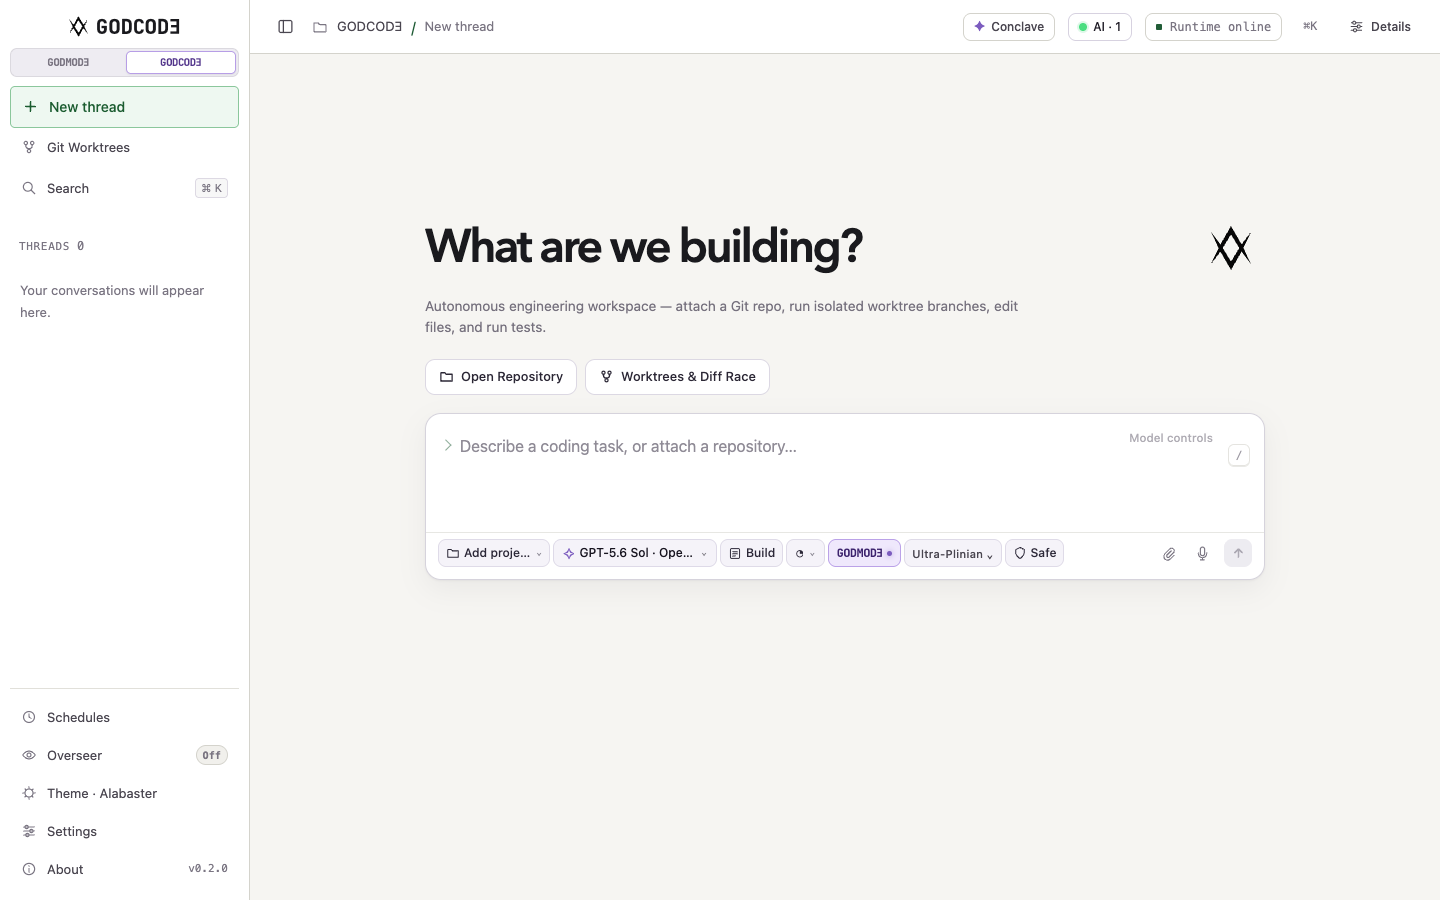
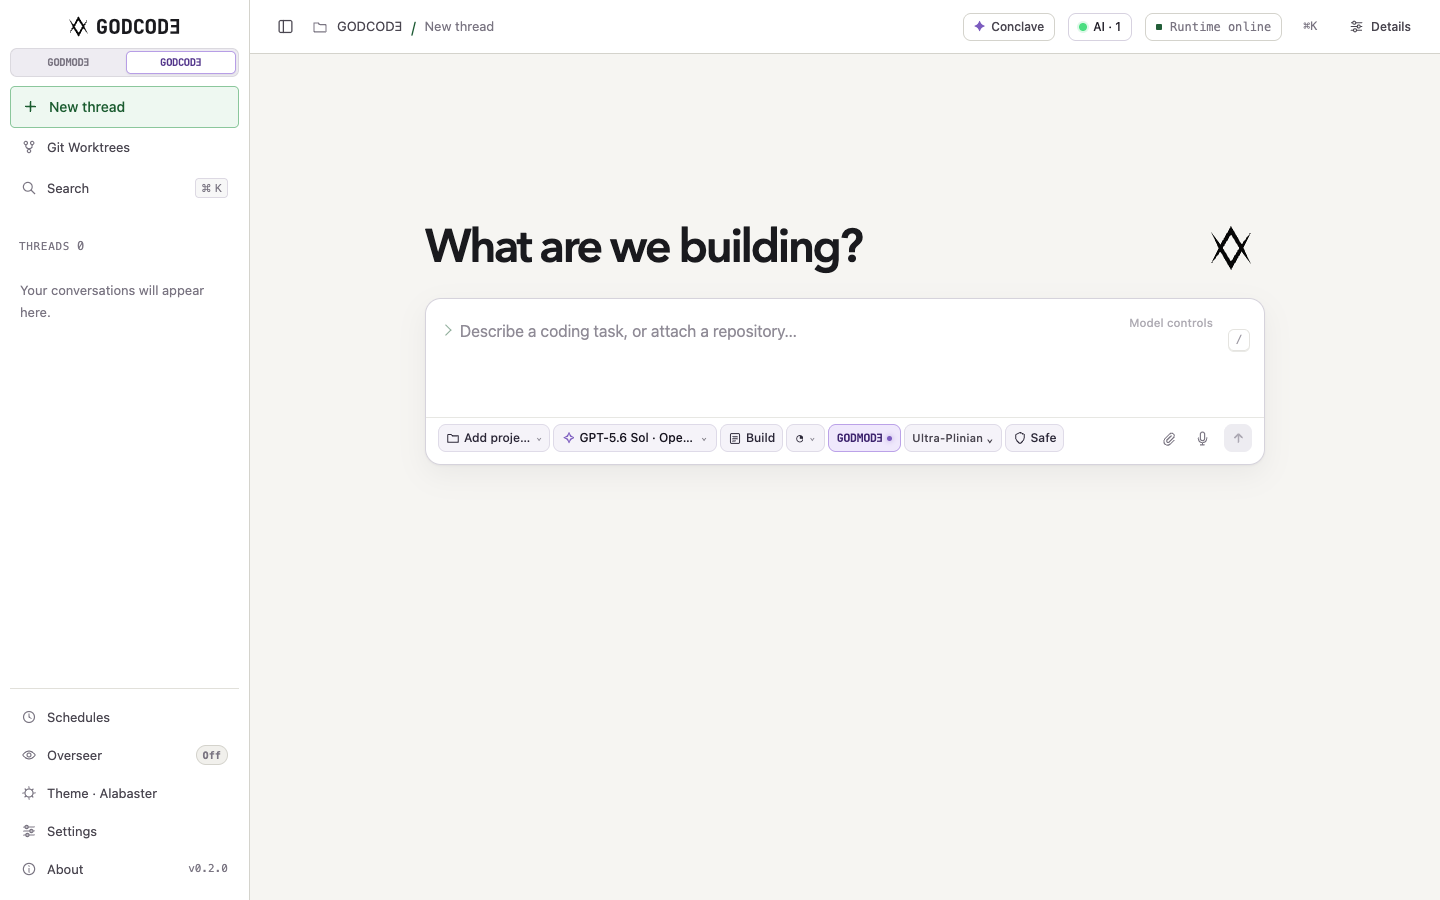
chore(ui): remove duplicate Open Repository / Worktrees buttons from GODCODƎ start page

diff --git a/public/index.html b/public/index.html
@@ -224,11 +224,7 @@
             </svg>
             </div>
           </div>
-          <p class="welcome-mode-sub hidden" id="welcome-godcode-sub">Autonomous engineering workspace — attach a Git repo, run isolated worktree branches, edit files, and run tests.</p>
-          <div class="godcode-launcher godcode-only" id="godcode-launcher">
-            <button type="button" class="godcode-launch-btn" id="godcode-open-repo"><svg viewBox="0 0 20 20" aria-hidden="true"><path d="M2.5 5h5l2 2h8v9h-15z"/></svg><span>Open Repository</span></button>
-            <button type="button" class="godcode-launch-btn" id="godcode-open-worktrees"><svg viewBox="0 0 20 20" aria-hidden="true"><circle cx="6" cy="5" r="2"/><circle cx="14" cy="5" r="2"/><circle cx="10" cy="15" r="2"/><path d="M6 7v2a3 3 0 0 0 3 3h2a3 3 0 0 0 3-3V7M10 12v1"/></svg><span>Worktrees &amp; Diff Race</span></button>
-          </div>
+          <p class="welcome-mode-sub hidden" id="welcome-godcode-sub" hidden></p>
         </div>
         <div class="welcome-setup hidden" id="welcome-setup">
           <form id="welcome-key-form" autocomplete="off">

diff --git a/public/app.js b/public/app.js
@@ -202,7 +202,7 @@ function applyAppMode(mode, { persist = true, notify = false, switchView = false
       ? 'What are we building<span class="welcome-punctuation">?</span>'
       : 'What can we do<span class="welcome-punctuation">?</span>';
   }
-  setVisible('#welcome-godcode-sub', isCode);
+  setVisible('#welcome-godcode-sub', false);
   renderStarterSuggestions();
   syncAdaptiveCompactUI();
   if (!isCode) {
